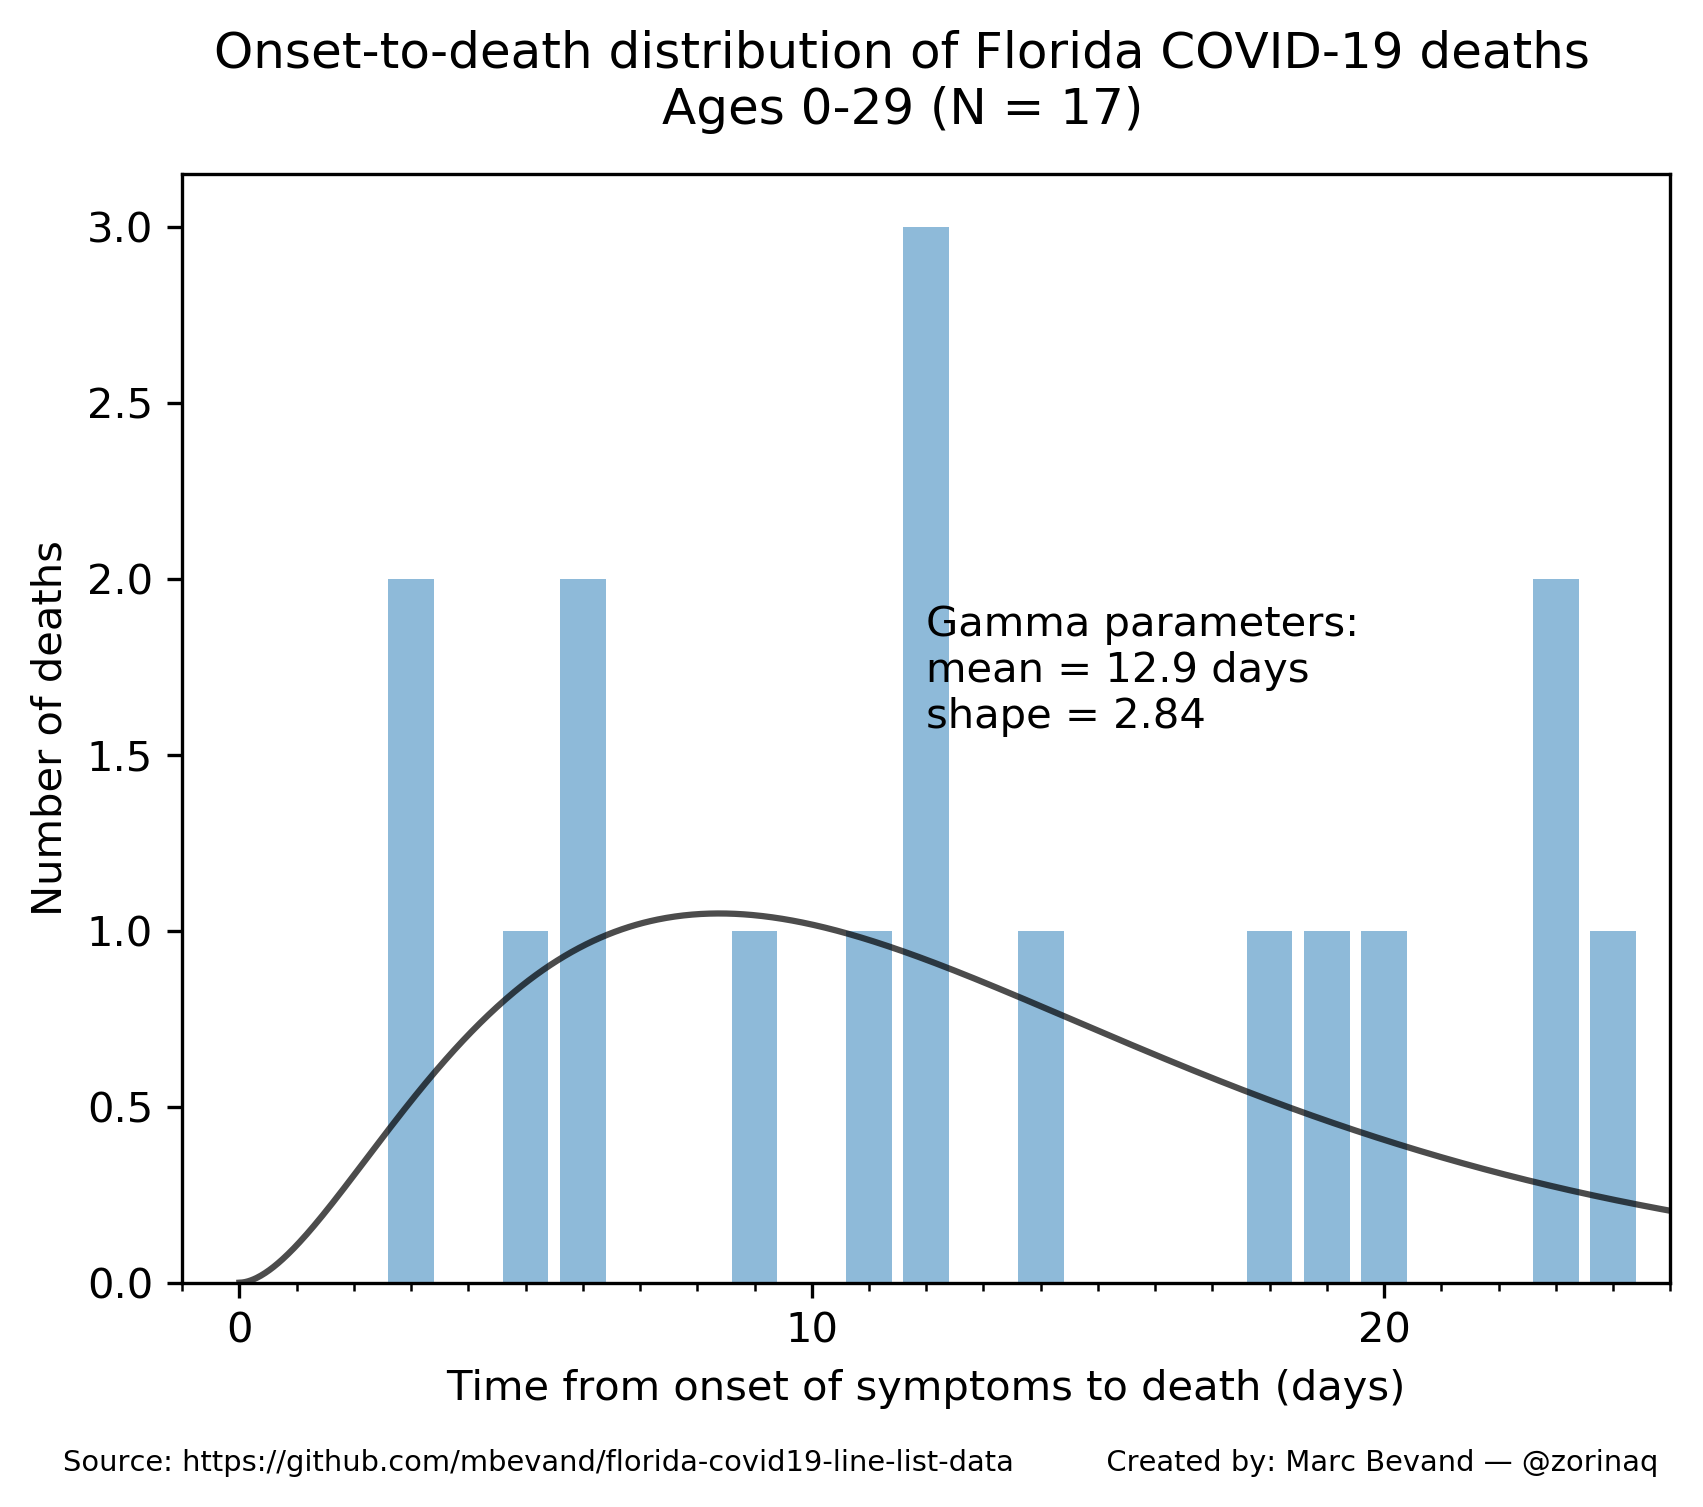
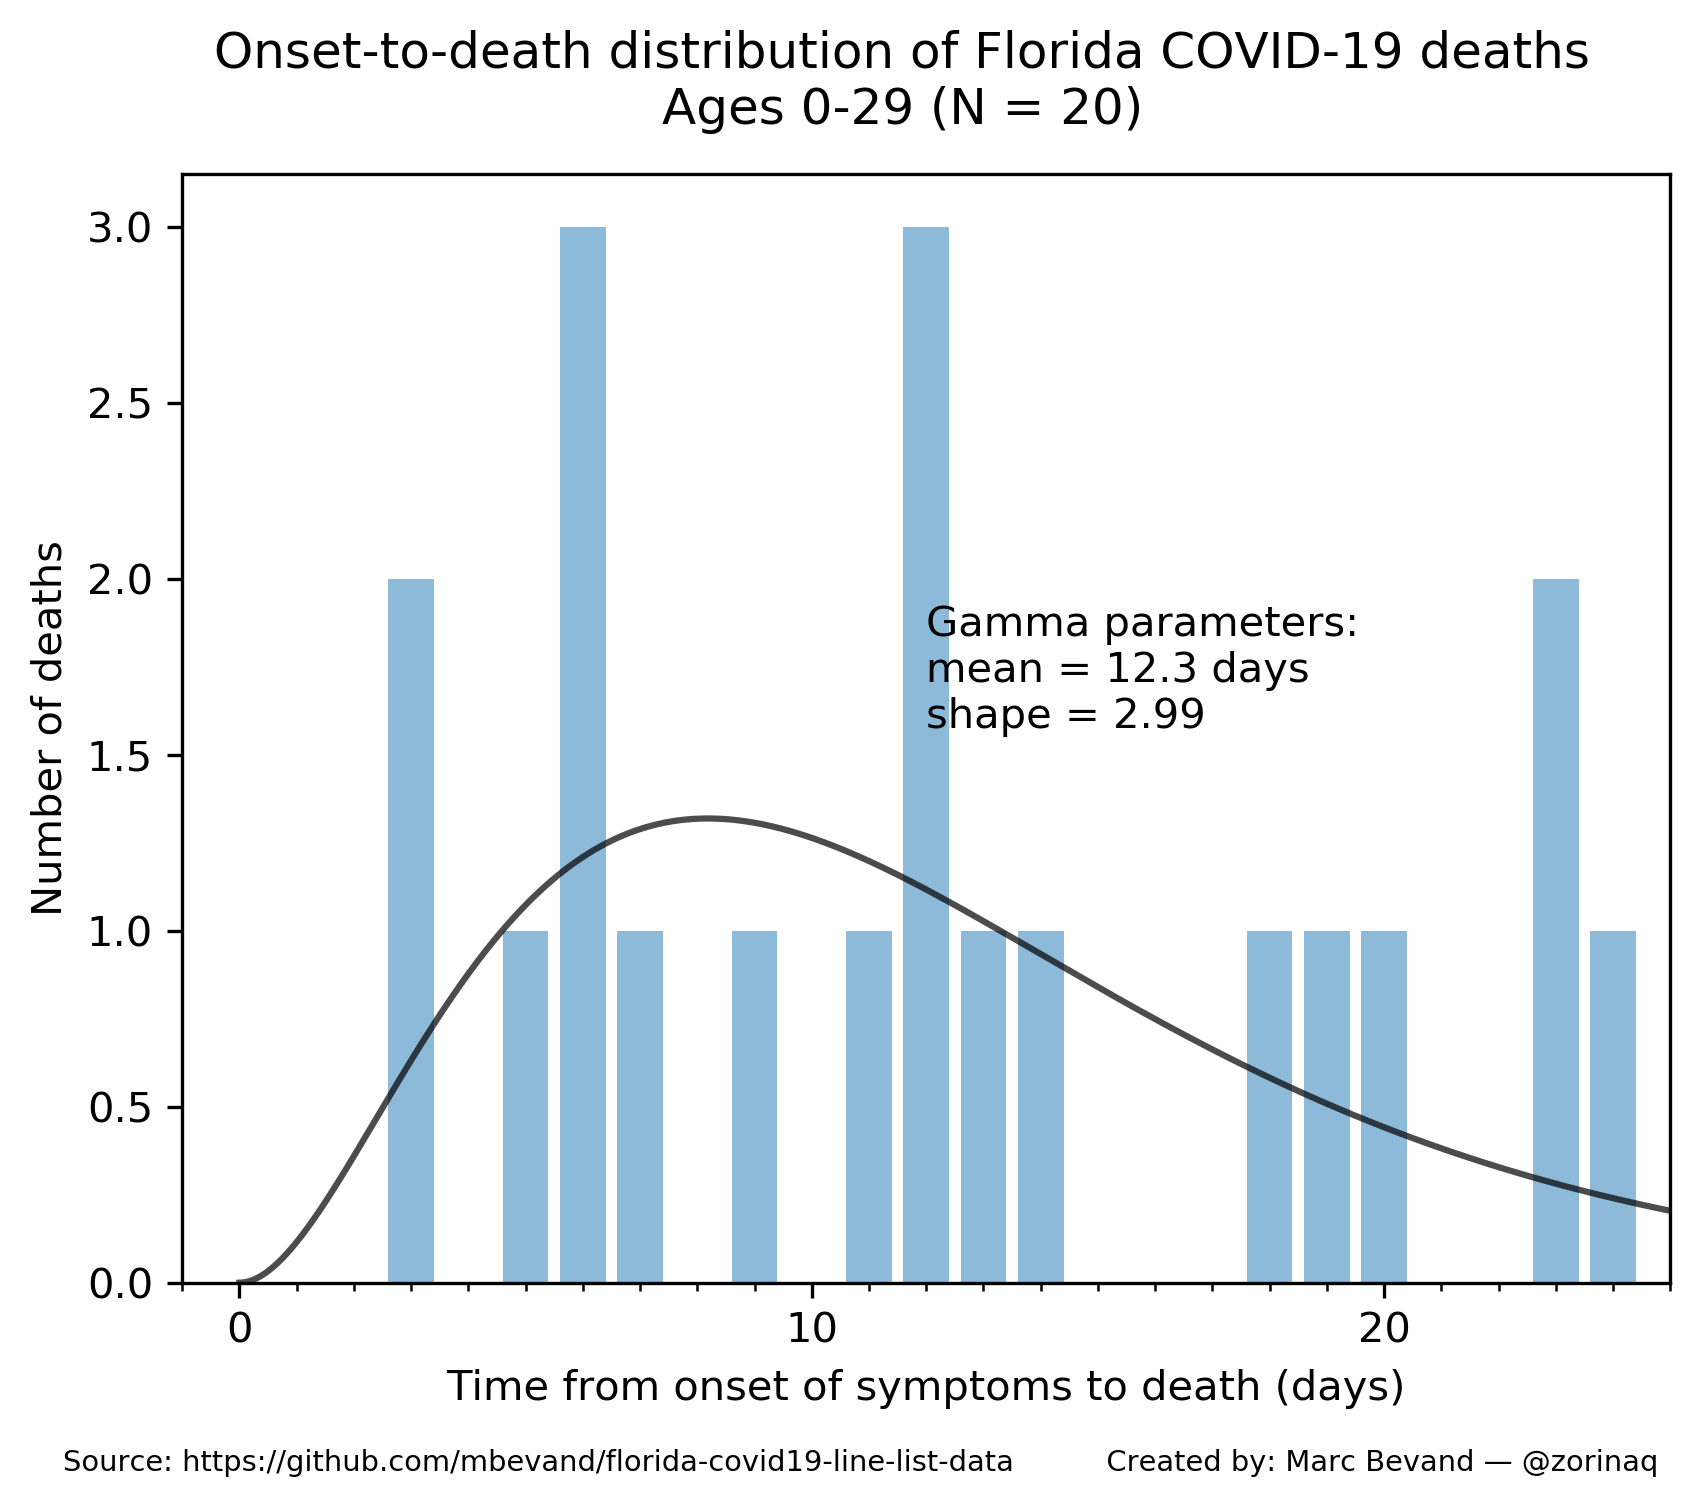
update gamma dist., improve CFR calculations
- new gamma distribution with line list data up to 22 July

- CFR averages are calculated by assigning equal *weight* to each day's CFR value

diff --git a/age_stratified_cfr.py b/age_stratified_cfr.py
@@ -20,7 +20,7 @@ age_brackets = ((0, 29), (30, 39), (40, 49), (50, 59), (60, 69), (70, 79), (80, 
 # Averaging period to calculate the raw and short-term adjusted CFR
 avg_days = 7
 # Averaging period to calculate the long-term adjusted CFR
-avg_days_long = 4 * 7
+avg_days_long = 3 * 7
 # Start the chart on this date
 first_date = datetime.date(2020, 3, 15)
 # "Tableau 20" colors re-ordered so the pastel colors are at the end
@@ -38,7 +38,7 @@ class Counters():
     deaths_adjusted = 0
     cases = 0
     cfr_raw = None
-    cfr_adjusted = None
+    cfr_adjusted_short = None
     cfr_adjusted_long = None
 
 def age_to_bracket(age):
@@ -69,25 +69,29 @@ def calc_cfr(data, mean, shape):
             days_since_onset = (last_date - date).days
             data[date][bracket].deaths_adjusted = \
                     data[date][bracket].deaths * censoring_factor(mean, shape, days_since_onset)
-            total_deaths_raw = total_deaths_adj = total_cases = 0
-            total_long_deaths = total_long_cases = 0
-            assert avg_days_long >= avg_days
-            for delta in range(avg_days_long):
+            list_cfr_raw = []
+            list_cfr_adj_short = []
+            list_cfr_adj_long = []
+            for delta in range(avg_days + avg_days_long):
                 date2 = date - datetime.timedelta(delta)
                 if date2 in data:
                     p = data[date2][bracket]
-                    if delta < avg_days:
-                        total_deaths_raw += p.deaths
-                        total_deaths_adj += p.deaths_adjusted
-                        total_cases += p.cases
-                    else:
-                        total_long_deaths += p.deaths_adjusted
-                        total_long_cases += p.cases
-            if total_cases:
-                data[date][bracket].cfr_raw = 100 * total_deaths_raw / total_cases
-                data[date][bracket].cfr_adjusted = 100 * total_deaths_adj / total_cases
-            if total_long_cases:
-                data[date][bracket].cfr_adjusted_long = 100 * total_long_deaths / total_long_cases
+                    if p.cases:
+                        if delta < avg_days:
+                            # Accumulate CFR data over the last avg_days days
+                            list_cfr_raw.append(p.deaths / p.cases)
+                            list_cfr_adj_short.append(p.deaths_adjusted / p.cases)
+                        else:
+                            # Accumulate CFR data over the avg_days_long days that
+                            # are immediately trailing the last avg_days days
+                            list_cfr_adj_long.append(p.deaths_adjusted / p.cases)
+            # The average CFR is calculated by assigning equal *weight* to each day's CFR value
+            if list_cfr_raw:
+                data[date][bracket].cfr_raw = 100 * np.mean(list_cfr_raw)
+            if list_cfr_adj_short:
+                data[date][bracket].cfr_adjusted_short = 100 * np.mean(list_cfr_adj_short)
+            if list_cfr_adj_long:
+                data[date][bracket].cfr_adjusted_long = 100 * np.mean(list_cfr_adj_long)
 
 def print_stats(data):
     print(f'{"period":>10}', end='')
@@ -120,9 +124,9 @@ def gen_chart(data, mean, shape):
                 if counters[bracket].cfr_raw is not None:
                     dates.append(date)
                     cfrs.append(counters[bracket].cfr_raw)
-                if counters[bracket].cfr_adjusted is not None:
+                if counters[bracket].cfr_adjusted_short is not None:
                     dates2.append(date)
-                    cfrs2.append(counters[bracket].cfr_adjusted)
+                    cfrs2.append(counters[bracket].cfr_adjusted_short)
                 if counters[bracket].cfr_adjusted_long is not None:
                     dates3.append(date)
                     cfrs3.append(counters[bracket].cfr_adjusted_long)
@@ -196,7 +200,7 @@ def main():
         data[date][b].deaths += 1 if died else 0
         data[date][b].cases += 1
     # Parameters of the Gamma distribution of onset-to-death, calculated by gamma.py
-    mean, shape = 17.5, 1.72
+    mean, shape = 17.7, 1.77
     calc_cfr(data, mean, shape)
     #print_stats(data)
     gen_chart(data, mean, shape)

diff --git a/forecast_deaths.py b/forecast_deaths.py
@@ -19,7 +19,7 @@ csv_url = 'https://opendata.arcgis.com/datasets/37abda537d17458bae6677b8ab75fcb9
 csv_actual_deaths = 'data_deaths/fl_resident_deaths.csv'
 
 # Mean time (in days) from onset of symptoms to death, calculated by gamma.py
-o2d = 17.5
+o2d = 17.7
 
 # Number of days to calculate the centered moving average of the chart curves
 cma_days = 7

diff --git a/README.md b/README.md
@@ -1,6 +1,6 @@
 # Forecasting deaths and analyzing age trends of COVID-19 cases in Florida
 
-*Updated: 21 July 2020*
+*Updated: 22 July 2020*
 
 Authors: Marc Bevand
 
@@ -68,13 +68,13 @@ important that we feed it CFR estimates, not IFR estimates. Infection Fatality
 Ratios take into account *undetected* cases and thus would not be consistent
 with line list data.
 
-Then the script assumes death occurs on average 17.5 days after infection,
+Then the script assumes death occurs on average 17.7 days after infection,
 which is the mean onset-to-death time calculated by `gamma.py`.
 
 Finally, it charts the forecast (`forecast_deaths.png`). The curves are all
 smoothed with a 7-day centered moving average.
 
-The end result is a simple tool that can not only predict deaths up to ~17.5
+The end result is a simple tool that can not only predict deaths up to ~17.7
 days ahead of time, but can also estimate *past* deaths accurately: notice how
 the colored curves in the generated chart follow closely the black curve
 (actual deaths.)
@@ -104,12 +104,21 @@ or if no such file exists it downloads it from the [FDOH line list page][dataset
 It calculates the 7-day moving average of the raw CFR of various age brackets,
 with cases ordered by date of onset of symptoms.
 
-The script also calculates the 7-day (short-term) and 28-day (long-term) moving
+The script also calculates the 7-day (short-term) and 21-day (long-term) moving
 average of the CFR ajusted for right censoring. The adjustment is performed by
 using the parameters of the Gamma distribution of onset-to-death calculated by
-`gamma.py`.
+`gamma.py`. The long-term average is calculated over 21 days shifted by 7 days
+(days D-7 through D-27) because despite best efforts to adjust for censoring,
+the number of deaths in the last 7 days still remains too incomplete to make the
+adjustment accurate (garbage in, garbage out.)
 
-The results of these calculations are charted in `age_stratified_cfr.png`.
+All the moving averages are calculated by assigning equal *weight* to each
+day's CFR value. If they were calculated by summing all cases and deaths across
+the entire 7-day or 21-day period, this would give too much weight to days
+with more cases and would not be representative of the overall average over
+the entire 7 or 21 days.
+
+The results of these CFR calculations are charted in `age_stratified_cfr.png`.
 
 The short-term adjusted CFR curve helps visualize the magnitude of right censoring:
 the curve follows the same peaks and valleys as the raw CFR, but deviates
@@ -179,70 +188,74 @@ Parsing data_fdoh/2020-07-15-09-09-26.csv
 Parsing data_fdoh/2020-07-16-07-58-41.csv
 Parsing data_fdoh/2020-07-17-09-17-34.csv
 Parsing data_fdoh/2020-07-18-08-58-55.csv
+Parsing data_fdoh/2020-07-19-10-12-32.csv
+Parsing data_fdoh/2020-07-20-08-30-29.csv
+Parsing data_fdoh/2020-07-21-09-22-37.csv
+Parsing data_fdoh/2020-07-22-08-26-38.csv
 
 Ages 0-29:
-Number of deaths: 17
+Number of deaths: 20
 Gamma distribution params:
-mean = 12.9
-shape = 2.84
+mean = 12.3
+shape = 2.99
 
 Ages 30-39:
-Number of deaths: 37
+Number of deaths: 43
 Gamma distribution params:
-mean = 17.0
-shape = 1.26
+mean = 16.8
+shape = 1.33
 
 Ages 40-49:
-Number of deaths: 57
+Number of deaths: 73
 Gamma distribution params:
-mean = 20.3
-shape = 1.94
+mean = 21.9
+shape = 1.64
 
 Ages 50-59:
-Number of deaths: 118
+Number of deaths: 152
 Gamma distribution params:
-mean = 19.8
-shape = 1.54
+mean = 20.2
+shape = 1.67
 
 Ages 60-69:
-Number of deaths: 250
+Number of deaths: 306
 Gamma distribution params:
-mean = 18.5
-shape = 1.82
+mean = 18.4
+shape = 1.87
 
 Ages 70-79:
-Number of deaths: 397
+Number of deaths: 526
 Gamma distribution params:
-mean = 18.8
-shape = 1.63
+mean = 18.5
+shape = 1.72
 
 Ages 80-89:
-Number of deaths: 462
+Number of deaths: 615
 Gamma distribution params:
-mean = 16.7
-shape = 1.86
+mean = 17.0
+shape = 1.95
 
 Ages 90+:
-Number of deaths: 277
+Number of deaths: 363
 Gamma distribution params:
-mean = 15.1
-shape = 1.75
+mean = 15.7
+shape = 1.73
 
 All ages:
-Number of deaths: 1615
+Number of deaths: 2098
 Gamma distribution params:
-mean = 17.5
-shape = 1.72
+mean = 17.7
+shape = 1.77
 ```
 
-The overall (all ages) mean of 17.5 days is comparable to other published estimates, however our
-distribution is wider (ie. smaller shape parameter of 1.72) because many deaths
+The overall (all ages) mean of 17.7 days is comparable to other published estimates, however our
+distribution is wider (ie. smaller shape parameter of 1.77) because many deaths
 occur in the long tail:
 * mean 17.8 days, shape 4.94 = 0.45<sup>-2</sup>, based on sample of 24 deaths: [Estimates of the severity of coronavirus disease 2019: a model-based analysis][verity]
 * mean 15.1 days, shape 5.1, based on sample of 3 deaths: [Estimating case fatality ratio of COVID-19 from observed cases outside China][althaus]
 
 We believe our distribution parameters are more accurate because
-they are based on a much larger sample of 1615 deaths. The long tail
+they are based on a much larger sample of 2098 deaths. The long tail
 may be the result of improved treatments that can maintain patients
 alive for a longer time.
 
